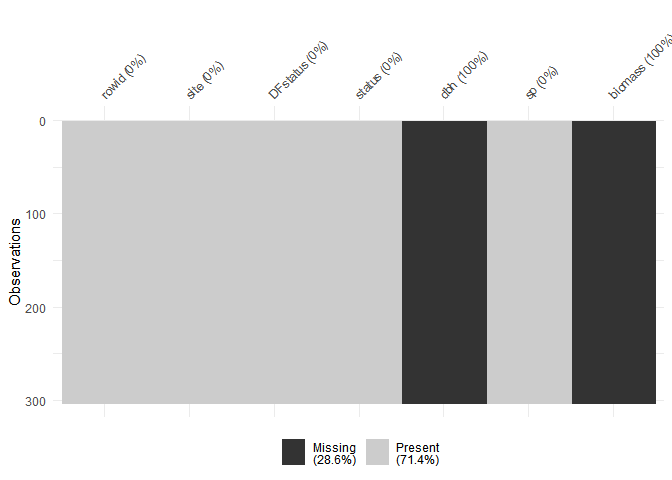
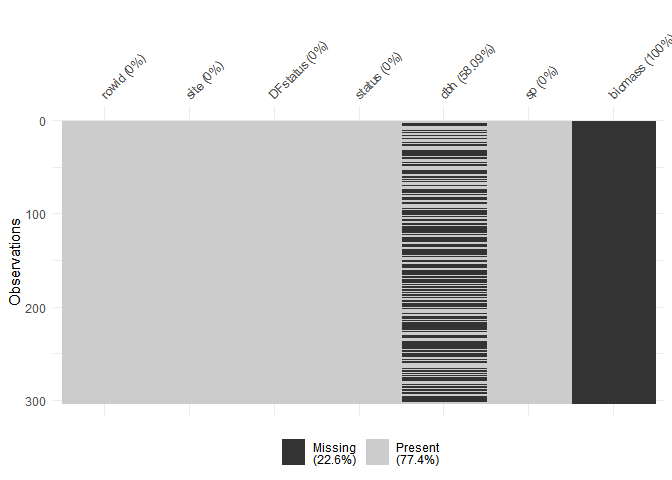
Refactor tests to quiet known warnings

diff --git a/.buildignore/dbh-vs-biomass.md b/.buildignore/dbh-vs-biomass.md
@@ -4,12 +4,12 @@ Plot dbh vs. biomass by species
 ``` r
 # Setup
 library(tidyverse)
-#> -- Attaching packages -------------------------------------------------- tidyverse 1.2.1 --
+#> -- Attaching packages ------------------------------------- tidyverse 1.2.1 --
 #> v ggplot2 3.1.0       v purrr   0.3.1  
 #> v tibble  2.0.1       v dplyr   0.8.0.1
 #> v tidyr   0.8.3       v stringr 1.4.0  
 #> v readr   1.3.1       v forcats 0.4.0
-#> -- Conflicts ----------------------------------------------------- tidyverse_conflicts() --
+#> -- Conflicts ---------------------------------------- tidyverse_conflicts() --
 #> x dplyr::filter() masks stats::filter()
 #> x dplyr::lag()    masks stats::lag()
 library(fgeo.biomass)
@@ -45,10 +45,16 @@ census_equations <- allo_find(census_species)
 #> Assuming `dbh` data in [mm].
 #> Joining, by = c("sp", "site")
 #> Converting `dbh` based on `dbh_unit`.
+#> Warning: Can't convert all units (inserting 176 missing values):
+#> the 'to' argument is not an acceptable unit.
 
 biomass <- allo_evaluate(census_equations)
 #> Assuming `dbh` units in [cm] (to convert units see `?measurements::conv_unit()`).
 #> `biomass` values are given in [kg].
+#> Warning: Can't convert all units (inserting 176 missing values):
+#> the 'from' argument is not an acceptable unit.
+#> Warning: Can't evaluate all equations (inserting 127 missing values):
+#> object 'dba' not found
 #> Warning: 
 #>     `biomass` may be invalid.
 #>     We still don't suppor the ability to select dbh-specific equations
@@ -179,8 +185,7 @@ census_equations_biomass %>%
   geom_point(aes(y = biomass), size = 0.3) +
   ylab("agb [Ton] in grey and biomass [kg] in black") +
   xlab("dbh [mm]")
-#> Warning: Removed 303 rows containing missing values (geom_point).
-
+#> Warning: Removed 176 rows containing missing values (geom_point).
 #> Warning: Removed 303 rows containing missing values (geom_point).
 ```
 
@@ -203,14 +208,15 @@ census_equations_biomass %>%
   facet_wrap("sp", ncol = 4) +
   ylab("agb [Ton] in grey and biomass [kg] in black") +
   xlab("dbh [mm]")
-#> Warning: Removed 303 rows containing missing values (geom_point).
-
+#> Warning: Removed 176 rows containing missing values (geom_point).
 #> Warning: Removed 303 rows containing missing values (geom_point).
 ```
 
 ![](dbh-vs-biomass_files/figure-gfm/unnamed-chunk-10-1.png)<!-- -->
 
 ### Why some `biomass` values are missing?
+
+This section is WORK IN PROGRESS. No need for feedback yet.
 
 Missing `biomass` is entirely explained by missing `dbh`.
 
@@ -220,7 +226,7 @@ failed <- census_equations_biomass %>%
   select(rowid, site, matches("status"), dbh, sp, biomass)
 
 any(!is.na(failed$dbh))
-#> [1] FALSE
+#> [1] TRUE
 
 naniar::vis_miss(failed)
 ```
@@ -270,18 +276,18 @@ census %>%
 #> Overwriting `sp`; it now stores Latin species names.
 #> Adding `rowid`.
 #> # A tibble: 303 x 6
-#>    rowid   dbh sp                   eqn   eqn_source eqn_type
-#>    <int> <dbl> <chr>                <chr> <chr>      <chr>   
-#>  1    25    NA hamamelis virginiana <NA>  <NA>       <NA>    
-#>  2    27    NA hamamelis virginiana <NA>  <NA>       <NA>    
-#>  3    35    NA juniperus virginiana <NA>  <NA>       <NA>    
-#>  4    91    NA unidentified unk     <NA>  <NA>       <NA>    
-#>  5   115    NA crataegus sp         <NA>  <NA>       <NA>    
-#>  6   129    NA hamamelis virginiana <NA>  <NA>       <NA>    
-#>  7   197    NA hamamelis virginiana <NA>  <NA>       <NA>    
-#>  8   199    NA hamamelis virginiana <NA>  <NA>       <NA>    
-#>  9   204    NA hamamelis virginiana <NA>  <NA>       <NA>    
-#> 10   222    NA ulmus sp             <NA>  <NA>       <NA>    
+#>    rowid   dbh sp                   eqn                eqn_source eqn_type
+#>    <int> <dbl> <chr>                <chr>              <chr>      <chr>   
+#>  1    25  1.10 hamamelis virginiana 38.111 * (dba^2.9) default    species 
+#>  2    27  4.2  hamamelis virginiana 38.111 * (dba^2.9) default    species 
+#>  3    35 NA    juniperus virginiana <NA>               <NA>       <NA>    
+#>  4    91 NA    unidentified unk     <NA>               <NA>       <NA>    
+#>  5   115 NA    crataegus sp         <NA>               <NA>       <NA>    
+#>  6   129  3.67 hamamelis virginiana 38.111 * (dba^2.9) default    species 
+#>  7   197  4    hamamelis virginiana 38.111 * (dba^2.9) default    species 
+#>  8   199  5.35 hamamelis virginiana 38.111 * (dba^2.9) default    species 
+#>  9   204  2.85 hamamelis virginiana 38.111 * (dba^2.9) default    species 
+#> 10   222 NA    ulmus sp             <NA>               <NA>       <NA>    
 #> # ... with 293 more rows
 ```
 
